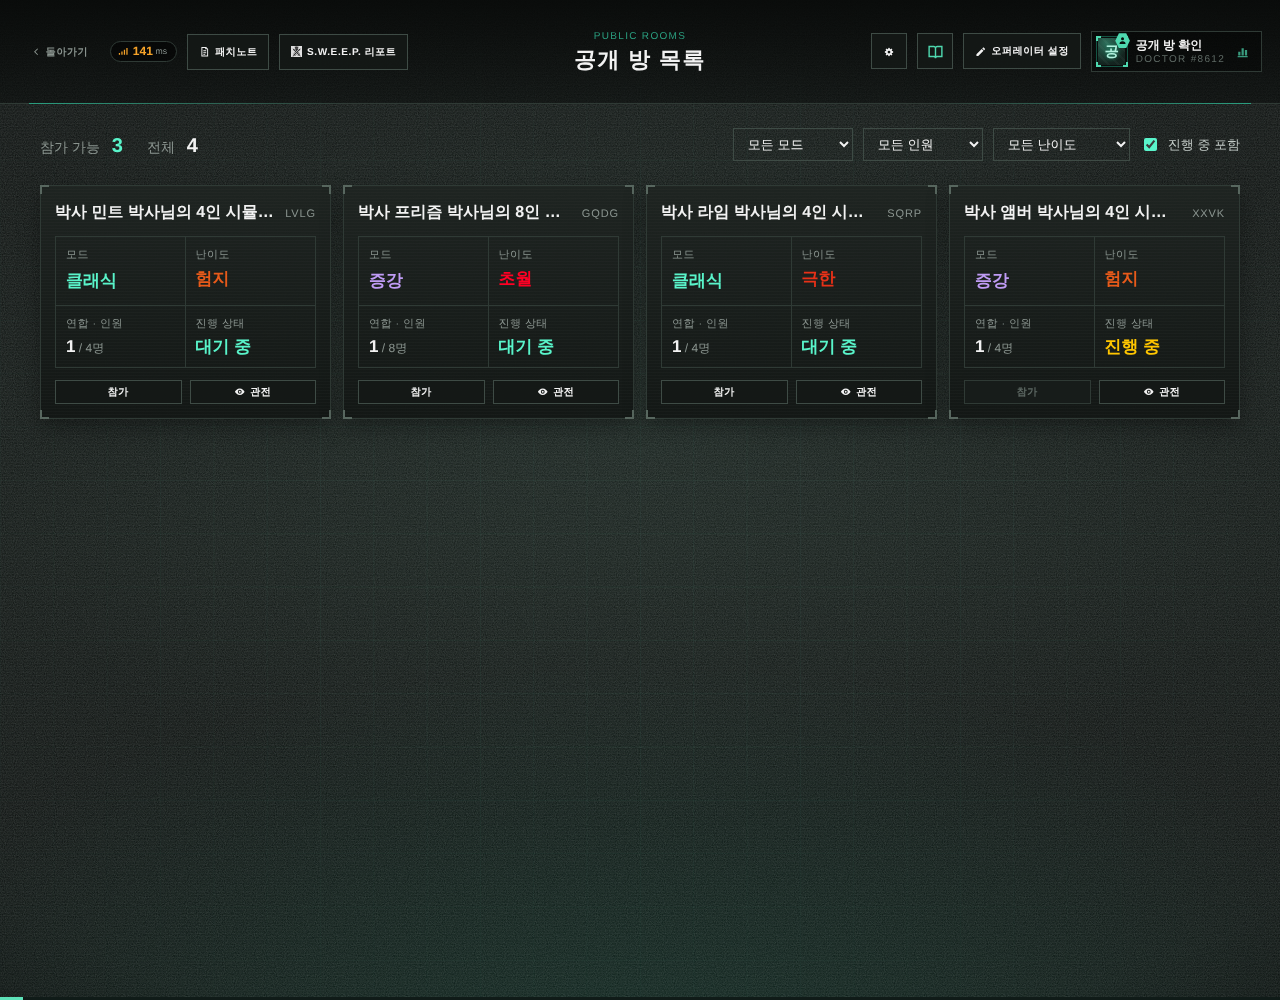
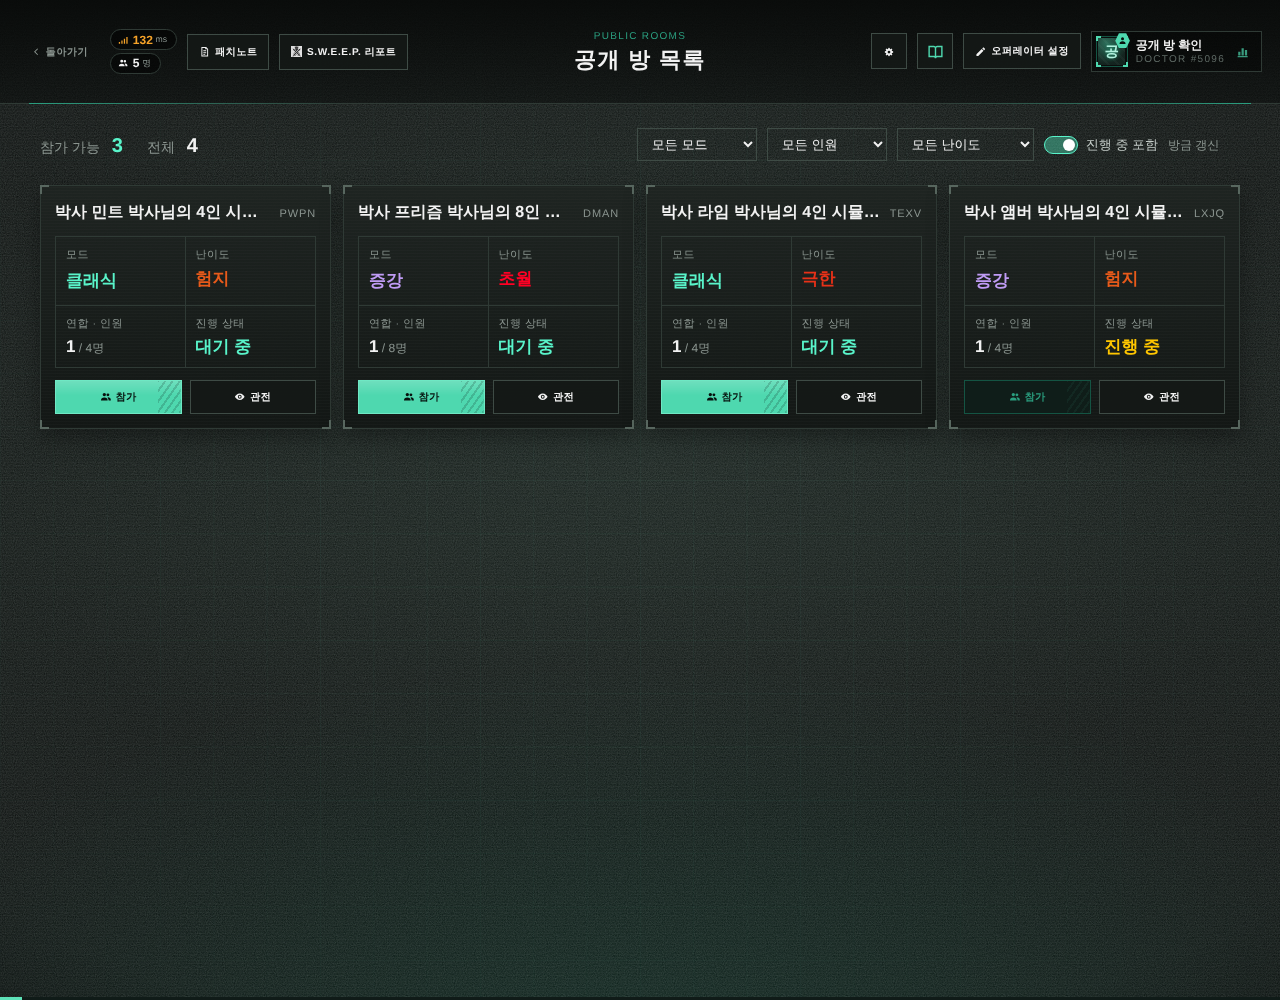
로비·탐색 상단에 접속 인원 표시(레이턴시 아래), 탐색 화면 참가 버튼 강조·진행 중 스위치·갱신 시각·빈 목록 안내·모바일 필터 개선
Claude-Session: https://claude.ai/code/session_01BQVezmGusymRqu5W6zXEyT

diff --git a/public/js/screens/publicRooms.js b/public/js/screens/publicRooms.js
@@ -2,29 +2,32 @@ import {defaultRoomTitle} from '../../../shared/roomTitle.js';
 import {tr} from '../i18n/i18n.js';
 import {PublicRoomSettings} from '../ui/publicRoomSettings.js';
 import {t} from '../../../shared/i18n.js';
-import {html,Button,MicroLabel} from '../ui/components.js';
+import {html,Button,MicroLabel,Icon} from '../ui/components.js';
 import {useState,useEffect} from '../../vendor/hooks.module.js';
 import {net} from '../net.js';
 import {DIFFICULTY_NAMES,DIFFICULTY_COLORS} from '../../../shared/constants.js';
 import {GAMEPLAY_MODE_NAMES} from '../../../shared/gameplayModes.js';
-export function PublicRoomsScreen({headerLeft,headerRight,onJoin,onSpectate}){
+export function PublicRoomsScreen({headerLeft,headerRight,onJoin,onSpectate,onCounts}){
  const[inspect,setInspect]=useState(null),[inspecting,setInspecting]=useState(null);
  const[rooms,setRooms]=useState([]),[loading,setLoading]=useState(false),[error,setError]=useState('');
+ const[updated,setUpdated]=useState(null),[now,setNow]=useState(Date.now());
  const[mode,setMode]=useState(''),[size,setSize]=useState(''),[difficulty,setDifficulty]=useState(''),[running,setRunning]=useState(false);
  useEffect(()=>{
   let active=true,inFlight=false;
   const refresh=async()=>{
    if(inFlight)return;inFlight=true;setLoading(true);
-   try{const r=await net.request('room.list');if(active){setRooms(r.rooms||[]);setError('');}}
+   try{const r=await net.request('room.list');if(active){setRooms(r.rooms||[]);setError('');if(r.counts)onCounts?.(r.counts);setUpdated(Date.now());}}
    catch(e){if(active)setError('방 목록을 불러오지 못했습니다. 잠시 후 다시 시도해주세요.');}
    finally{inFlight=false;if(active)setLoading(false);}
   };
-  refresh();const timer=setInterval(refresh,10000);
-  return()=>{active=false;clearInterval(timer);};
+  refresh();const timer=setInterval(refresh,10000),clock=setInterval(()=>setNow(Date.now()),1000);
+  return()=>{active=false;clearInterval(timer);clearInterval(clock);};
  },[]);
+ const filtersOn=!!(mode||size||difficulty||running);
+ const ago=updated?Math.max(0,Math.round((now-updated)/1000)):null;
  const canJoin=r=>!r.started&&r.mode!=='solo'&&r.players+r.bots<r.capacity;
  const filtered=rooms.filter(r=>(running||!r.started)&&(!mode||r.gameplayMode===mode)&&(!size||r.mode===size)&&(!difficulty||r.difficulty===difficulty));
  return html`<div class="screen public-rooms-screen"><header class="topbar app-topbar">${headerLeft}<div class="topbar__center"><${MicroLabel} tone="mint">PUBLIC ROOMS<//><h1 class="topbar__title">공개 방 목록</h1></div>${headerRight}</header><main class="screen__scroll public-rooms-page"><div class="public-rooms-page__content">
- <div class="public-rooms__toolbar"><div class="public-rooms__counts" aria-live="polite"><span>참가 가능 <b>${rooms.filter(canJoin).length}</b></span><span>전체 <b>${rooms.length}</b></span></div><div class="public-rooms__filters"><select aria-label="게임 모드 필터" value=${mode} onChange=${e=>setMode(e.target.value)}><option value="">모든 모드</option><option value="classic">클래식</option><option value="augment">증강</option><option value="custom">커스텀</option></select><select aria-label="인원 필터" value=${size} onChange=${e=>setSize(e.target.value)}><option value="">모든 인원</option><option value="coop">4인</option><option value="coop8">8인</option></select><select aria-label="난이도 필터" value=${difficulty} onChange=${e=>setDifficulty(e.target.value)}><option value="">모든 난이도</option>${Object.entries(DIFFICULTY_NAMES).map(([id,name])=>html`<option value=${id}>${name}</option>`)}</select><label><input type="checkbox" checked=${running} onChange=${e=>setRunning(e.target.checked)}/>진행 중 포함</label></div></div>
- <div class="public-rooms__error" role="alert">${error}</div><div class="public-rooms public-rooms--cards">${!filtered.length?html`<p class="public-rooms__empty">${loading?'공개 방을 불러오는 중입니다.':'조건에 맞는 공개 방이 없습니다.'}</p>`:filtered.map(r=>html`<article key=${r.code} class="public-room panel brackets"><div class="public-room__host"><strong title=${r.title} data-room-title data-i18n-skip>${r.title===defaultRoomTitle(r.mode)?tr(r.title):r.title}</strong><small>${r.code}</small></div><dl class="public-room__details"><div class="public-room__mode"><dt>모드</dt><dd data-mode=${r.gameplayMode}>${GAMEPLAY_MODE_NAMES[r.gameplayMode]}${r.gameplayMode==='custom'?html`<${Button} size="sm" variant="secondary" icon="info" class="public-room__settings" aria-label="설정 보기" title="설정 보기" disabled=${inspecting===r.code} onClick=${async()=>{setInspecting(r.code);try{const res=await net.request('room.inspect',{code:r.code});setInspect(res.room);}catch(e){setError('설정을 불러오지 못했습니다. 방 목록을 확인해주세요.');}finally{setInspecting(null);}}}/>`:null}</dd></div><div><dt>난이도</dt><dd style=${`color:${DIFFICULTY_COLORS[r.difficulty]}`} data-difficulty=${r.difficulty}>${t(DIFFICULTY_NAMES[r.difficulty]||'').replace(/\s*시뮬레이션$/,'')}</dd></div><div><dt>${r.mode==='solo'?'단독':'연합'} · 인원</dt><dd class="public-room__population"><span>${r.players+r.bots}<small> / ${r.capacity}명</small></span>${r.bots?html`<span class="public-room__bots">AI ${r.bots}</span>`:null}</dd></div><div><dt>진행 상태</dt><dd data-state=${r.started?'running':'waiting'}>${r.started?'진행 중':'대기 중'}</dd></div></dl><div class="public-room__actions"><${Button} size="sm" disabled=${!canJoin(r)} onClick=${()=>onJoin(r.code)}>참가<//><${Button} size="sm" variant="secondary" icon="eye" disabled=${r.mode==='solo'||r.spectatorCap<=r.spectators} title=${r.spectatorCap?'관전하기':'관전이 허용되지 않은 방입니다.'} onClick=${()=>onSpectate(r.code)}>관전<//></div></article>`)}</div></div></main>${inspect?html`<${PublicRoomSettings} room=${inspect} onClose=${()=>setInspect(null)}/>`:null}</div>`;
+ <div class="public-rooms__toolbar"><div class="public-rooms__counts" aria-live="polite"><span>참가 가능 <b>${rooms.filter(canJoin).length}</b></span><span>전체 <b>${rooms.length}</b></span></div><div class="public-rooms__filters"><select aria-label="게임 모드 필터" value=${mode} onChange=${e=>setMode(e.target.value)}><option value="">모든 모드</option><option value="classic">클래식</option><option value="augment">증강</option><option value="custom">커스텀</option></select><select aria-label="인원 필터" value=${size} onChange=${e=>setSize(e.target.value)}><option value="">모든 인원</option><option value="coop">4인</option><option value="coop8">8인</option></select><select aria-label="난이도 필터" value=${difficulty} onChange=${e=>setDifficulty(e.target.value)}><option value="">모든 난이도</option>${Object.entries(DIFFICULTY_NAMES).map(([id,name])=>html`<option value=${id}>${name}</option>`)}</select><label class="public-rooms__running"><input type="checkbox" role="switch" class="ui-switch" checked=${running} onChange=${e=>setRunning(e.target.checked)}/>진행 중 포함</label><span class="public-rooms__updated" aria-live="off" title="10초마다 자동으로 갱신됩니다.">${ago==null?'':ago<5?'방금 갱신':`${ago}초 전 갱신`}</span></div></div>
+ <div class="public-rooms__error" role="alert">${error}</div><div class="public-rooms public-rooms--cards">${!filtered.length?html`<div class="public-rooms__empty"><${Icon} name="users"/><strong>${loading&&!updated?'공개 방을 불러오는 중입니다.':filtersOn?'조건에 맞는 공개 방이 없습니다.':'지금 열려 있는 공개 방이 없습니다.'}</strong><span>${filtersOn?'필터를 바꾸거나 초기화해 보세요.':'로비에서 연합 시뮬레이션을 공개로 만들면 이 목록에 표시됩니다.'}</span>${filtersOn?html`<${Button} size="sm" variant="secondary" icon="refresh" onClick=${()=>{setMode('');setSize('');setDifficulty('');setRunning(false);}}>필터 초기화<//>`:null}</div>`:filtered.map(r=>html`<article key=${r.code} class="public-room panel brackets"><div class="public-room__host"><strong title=${r.title} data-room-title data-i18n-skip>${r.title===defaultRoomTitle(r.mode)?tr(r.title):r.title}</strong><small>${r.code}</small></div><dl class="public-room__details"><div class="public-room__mode"><dt>모드</dt><dd data-mode=${r.gameplayMode}>${GAMEPLAY_MODE_NAMES[r.gameplayMode]}${r.gameplayMode==='custom'?html`<${Button} size="sm" variant="secondary" icon="info" class="public-room__settings" aria-label="설정 보기" title="설정 보기" disabled=${inspecting===r.code} onClick=${async()=>{setInspecting(r.code);try{const res=await net.request('room.inspect',{code:r.code});setInspect(res.room);}catch(e){setError('설정을 불러오지 못했습니다. 방 목록을 확인해주세요.');}finally{setInspecting(null);}}}/>`:null}</dd></div><div><dt>난이도</dt><dd style=${`color:${DIFFICULTY_COLORS[r.difficulty]}`} data-difficulty=${r.difficulty}>${t(DIFFICULTY_NAMES[r.difficulty]||'').replace(/\s*시뮬레이션$/,'')}</dd></div><div><dt>${r.mode==='solo'?'단독':'연합'} · 인원</dt><dd class="public-room__population"><span>${r.players+r.bots}<small> / ${r.capacity}명</small></span>${r.bots?html`<span class="public-room__bots">AI ${r.bots}</span>`:null}</dd></div><div><dt>진행 상태</dt><dd data-state=${r.started?'running':'waiting'}>${r.started?'진행 중':'대기 중'}</dd></div></dl><div class="public-room__actions"><${Button} size="sm" variant="primary" icon="users" disabled=${!canJoin(r)} onClick=${()=>onJoin(r.code)}>참가<//><${Button} size="sm" variant="secondary" icon="eye" disabled=${r.mode==='solo'||r.spectatorCap<=r.spectators} title=${r.spectatorCap?'관전하기':'관전이 허용되지 않은 방입니다.'} onClick=${()=>onSpectate(r.code)}>관전<//></div></article>`)}</div></div></main>${inspect?html`<${PublicRoomSettings} room=${inspect} onClose=${()=>setInspect(null)}/>`:null}</div>`;
 }

diff --git a/public/js/screens/lobby.js b/public/js/screens/lobby.js
@@ -23,7 +23,7 @@ import { TestMark } from '../ui/testConsole.js';
 import { ResumeMatchButton } from '../ui/resumeMatch.js';
 import { useEffect, useRef, useState } from '../../vendor/hooks.module.js';
 import { DIFFICULTIES, DIFFICULTY_NAMES, DIFFICULTY_COLORS, ROOM_CODE_LEN, MAX_SEATS, MAX_SPECTATORS, MAX_SPECTATOR_SEATS, ERR, modeIdFor } from '../../../shared/constants.js';
-import { html, Button, Icon, MicroLabel, Panel, TextField, PingPill, AvatarFrame, Tooltip, Spinner, Modal, DifficultyIcon, doctorNo } from '../ui/components.js';
+import { html, Button, Icon, MicroLabel, Panel, TextField, PingPill, OnlinePill, AvatarFrame, Tooltip, Spinner, Modal, DifficultyIcon, doctorNo } from '../ui/components.js';
 import { toast, toastError } from '../ui/toasts.js';
 import { GuideButton } from '../ui/guide.js';
 import { SettingsButton } from '../ui/settings.js';
@@ -375,7 +375,7 @@ export function LobbyScreen() {
 
   const headerLeft=onBack=>html`      <div class="topbar__left">
         <${Button} variant="ghost" size="sm" icon="chevronLeft" class="nav-back" onClick=${onBack} title="返回标题">返回<//>
-        <${PingPill} ms=${conn.ping} online=${online} />
+        <div class="lobby-presence"><${PingPill} ms=${conn.ping} online=${online} /><${OnlinePill} count=${online?publicRoomCount?.online:undefined} /></div>
         <${PatchNotesButton} autoOpen=${true} />
         <${Button} variant="secondary" size="sm" icon="report" class="lobby-sweep" onClick=${() => setSweepOpen(true)}>S.W.E.E.P. 리포트<//>
       </div>
@@ -394,7 +394,7 @@ export function LobbyScreen() {
         </button>
       </div>
 `;
-  if(publicOpen)return html`<${PublicRoomsScreen} headerLeft=${headerLeft(()=>setPublicOpen(false))} headerRight=${headerRight} onJoin=${join} onSpectate=${spectate}/>${sweepOpen?html`<${SweepReport} onClose=${()=>setSweepOpen(false)}/>`:null}`;
+  if(publicOpen)return html`<${PublicRoomsScreen} onCounts=${setPublicRoomCount} headerLeft=${headerLeft(()=>setPublicOpen(false))} headerRight=${headerRight} onJoin=${join} onSpectate=${spectate}/>${sweepOpen?html`<${SweepReport} onClose=${()=>setSweepOpen(false)}/>`:null}`;
   return html`<div class="screen lobby-screen">
     <header class="topbar app-topbar">
       ${headerLeft(backToTitle)}

diff --git a/public/css/screens/lobby.css b/public/css/screens/lobby.css
@@ -457,3 +457,25 @@ html:not([lang="ko"]) .mode-cards .mode-card--lab .mode-card__name{font-size:.24
 .lobby-screen .join-foot .t-dim,.lobby-screen .create-box__hint { color:var(--text-lo); font-size:max(.14rem,12px); }
 .lobby-screen .mode-card__public span { font-size:max(.18rem,15px); }
 .lobby-screen .diff-card__meta > .num { line-height:18px; }
+/* latency + online players stacked in the top bar (lobby and public rooms) */
+.lobby-presence { display:flex; flex-direction:column; align-items:flex-start; gap:.04rem; }
+.ping--online { --pc:var(--text-hi); }
+.ping--online.ping--off { --pc:var(--text-dim); }
+/* public rooms: clearer primary action, shared switch, refresh state, real empty state */
+.public-rooms-screen .public-room__actions .btn { height:max(.4rem,34px); }
+.public-rooms__running { gap:8px; }
+.public-rooms__running input.ui-switch { width:34px; height:18px; margin:0; }
+.public-rooms__updated { min-width:6em; font-size:12px; color:var(--text-lo); }
+.public-rooms__empty { display:flex; flex-direction:column; align-items:center; justify-content:center; gap:10px; min-height:240px; padding:32px 16px; border:1px dashed var(--line-2); background:rgba(0,0,0,.18); text-align:center; font-size:14px; color:var(--text-md); }
+.public-rooms__empty > .icon { width:36px; height:36px; color:var(--text-dim); }
+.public-rooms__empty strong { font-size:17px; color:var(--text-hi); }
+@media(max-width:600px){
+ .public-rooms__filters { display:grid; grid-template-columns:repeat(3,minmax(0,1fr)); width:100%; margin-left:0; gap:8px; }
+ .public-rooms__filters select { min-width:0; width:100%; font-size:12px; padding:7px 4px; }
+ .public-rooms__running { grid-column:1/3; }
+ .public-rooms__updated { grid-column:1/-1; text-align:right; min-width:0; }
+}
+@media(max-width:600px){
+ .public-rooms-screen .public-room__actions .btn,.public-rooms__empty .btn { height:40px; font-size:14px; }
+ .public-rooms-screen .public-room__actions .btn .icon { width:15px; height:15px; }
+}

diff --git a/shared/languagePacks.js b/shared/languagePacks.js
@@ -8,8 +8,8 @@ export const LANGUAGE_PACKS = {
     },
     {
       "path": "/i18n/en/fork.json",
-      "bytes": 220344,
[1 lines of base64/hex data omitted]
+      "bytes": 221007,
[1 lines of base64/hex data omitted]
     },
     {
       "path": "/i18n/ko/compiled.json",
@@ -35,8 +35,8 @@ export const LANGUAGE_PACKS = {
     },
     {
       "path": "/i18n/ja/fork.json",
-      "bytes": 240171,
[1 lines of base64/hex data omitted]
+      "bytes": 240969,
[1 lines of base64/hex data omitted]
     },
     {
       "path": "/i18n/ko/compiled.json",
@@ -60,8 +60,8 @@ export const LANGUAGE_PACKS = {
     },
     {
       "path": "/i18n/en/fork.json",
-      "bytes": 220344,
[1 lines of base64/hex data omitted]
+      "bytes": 221007,
[1 lines of base64/hex data omitted]
     },
     {
       "path": "/i18n/en.json",
@@ -82,8 +82,8 @@ export const LANGUAGE_PACKS = {
     },
     {
       "path": "/i18n/zh/fork.json",
-      "bytes": 214146,
[1 lines of base64/hex data omitted]
+      "bytes": 214830,
[1 lines of base64/hex data omitted]
     },
     {
       "path": "/i18n/ko/compiled.json",

diff --git a/public/js/ui/components.js b/public/js/ui/components.js
@@ -814,6 +814,15 @@ export function doctorNo(id) {
  * Latency pill ("58ms"), coloured by research 06 §3.4 tiers (<60 mint, <200 amber, else red).
  * @param {{ ms?: number|null, online?: boolean, class?: string }} props
  */
+/** Players connected to the server, in the same pill style as the latency readout. */
+export function OnlinePill({ count, class: cls }) {
+  const ok = Number.isFinite(count);
+  return html`<span class=${cx('ping', 'ping--online', !ok && 'ping--off', cls)} title=${ok ? `접속 중 ${count}명` : '접속 인원 확인 중'} aria-label=${ok ? `접속 중 ${count}명` : '접속 인원 확인 중'}>
+    <${Icon} name="users" class="ping__icon" />
+    <span class="ping__value">${ok ? Math.min(99999, count) : '--'}</span><span class="ping__unit">명</span>
+  </span>`;
+}
+
 export function PingPill({ ms, online = true, class: cls }) {
   const ok = online && Number.isFinite(ms);
   const tier = !ok ? 'off' : ms < 60 ? 'low' : ms < 200 ? 'medium' : 'high';

diff --git a/server/net.js b/server/net.js
@@ -667,7 +667,7 @@ export class Network {
       // surface as an error toast in the browser)
       if (msg.t === 'b.progress' && !validRid(rid)) return;
       this.reply(conn, errorMsg(isErrCode(res.error) ? res.error : ERR.INTERNAL, rid, res.detail));
-    } else if (validRid(rid)) this.reply(conn, { t: 'ok', rid, ...(msg.t==='room.list'&&Array.isArray(res?.rooms)?{rooms:res.rooms,counts:res.counts}:msg.t==='room.inspect'&&res?.room?{room:res.room}:{}) });
+    } else if (validRid(rid)) this.reply(conn, { t: 'ok', rid, ...(msg.t==='room.list'&&Array.isArray(res?.rooms)?{rooms:res.rooms,counts:{...res.counts,online:this.onlineCount}}:msg.t==='room.inspect'&&res?.room?{room:res.room}:{}) });
   }
 
   /** @param {Connection} conn @param {any} msg @param {number} now */
